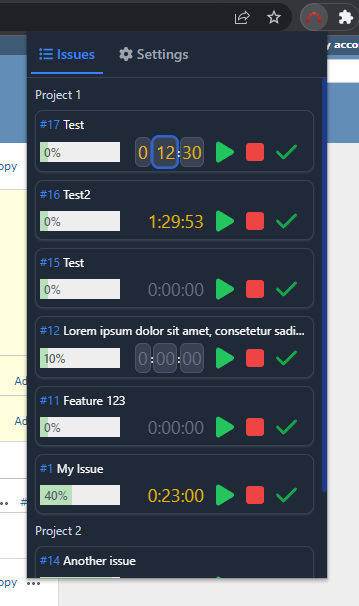
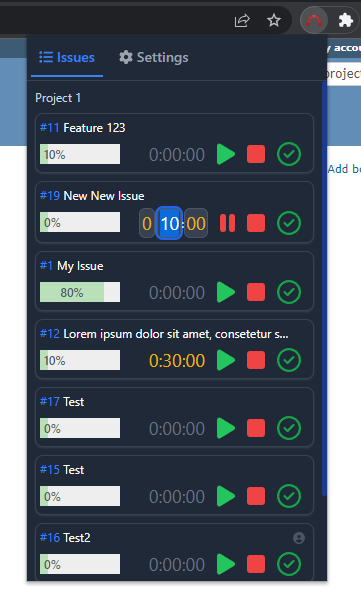
chore: Provide new screenshots

diff --git a/README.md b/README.md
@@ -20,12 +20,13 @@
 
 - View all your assigned Redmine issues
 - Start and stop the timer for your current tasks
-- Edit timer by double-click on timer
+- Edit timer (double-click)
 - Create entry for time spent in Redmine issue
 - Update done ratio
 - Round timer to nearest 15 min
 - Search for issue (press `CTRL` + `K` or `CTRL` + `F`)
 - Remember and forgot issue (not assigned to you)
+- Favorite and unfavorite issue
 - Dark & light mode (system default)
 
 # Screenshots
@@ -33,6 +34,8 @@
 ![issues](screenshots/issues-dark.png)
 ![settings](screenshots/settings-dark.png)
 ![issues-search](screenshots/issues-search-dark.png)
+![issues-create-time-spent](screenshots/issues-create-time-spent-dark.png)
+![issues-context-menu](screenshots/issues-context-menu-dark.png)
 ![issues-edit](screenshots/issues-edit-dark.png)
 
 # Credits
